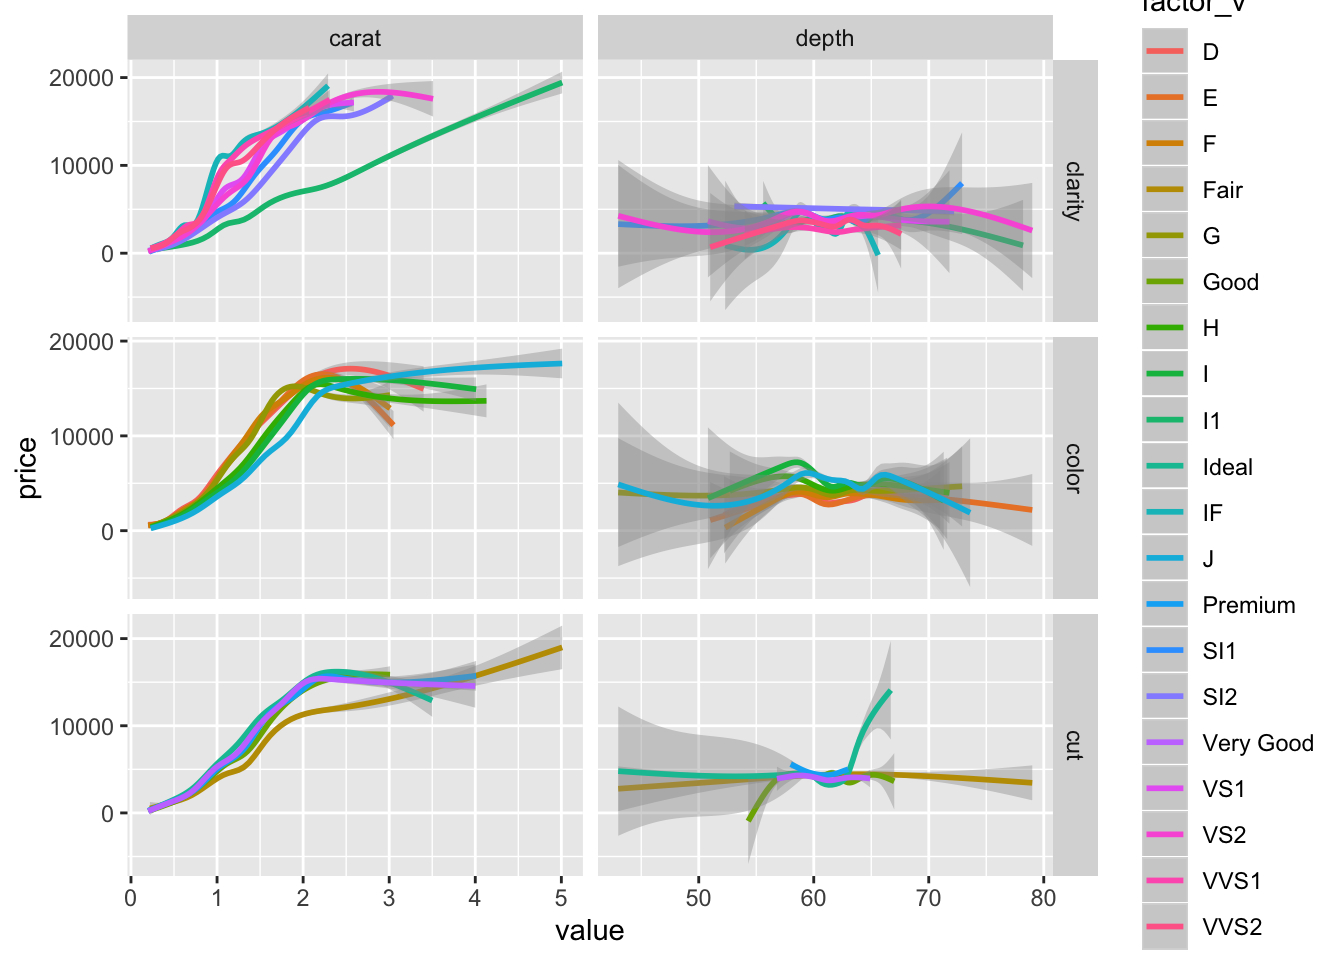
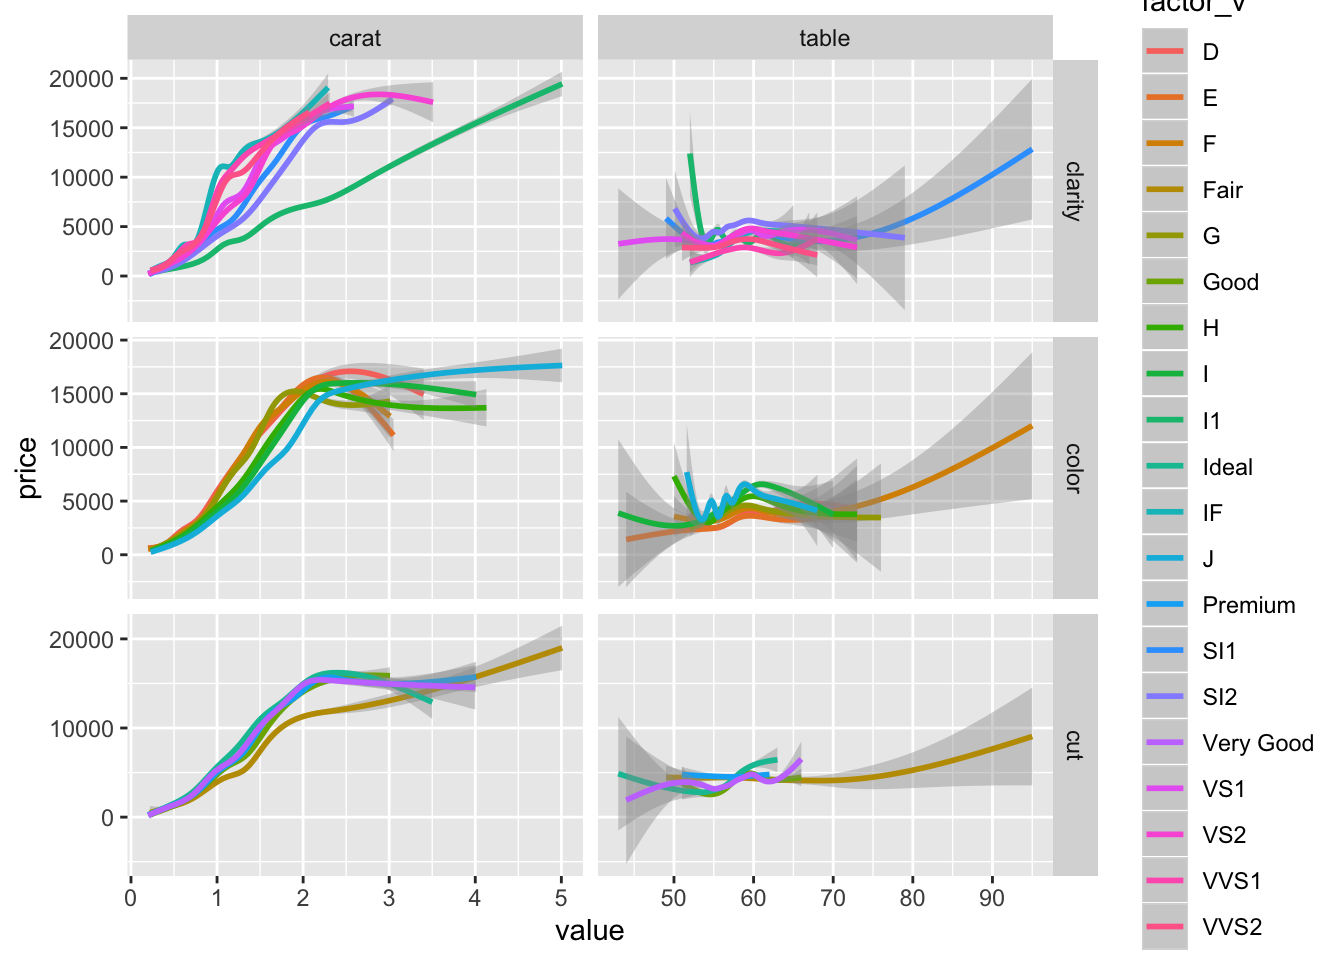
fixed typos

diff --git a/public/blog/plotting-gamm-interactions-with-ggplot2/index.html b/public/blog/plotting-gamm-interactions-with-ggplot2/index.html
@@ -218,12 +218,12 @@ But the other variables might also have smaller effects that we should be accoun
 <p>Let’s start of by just making some plots, and get an idea of the data and how they interact with price.
 I’m going to gather the numeric variables I’m interested in into a long-format table, so that I can facet (make subplots) easily for the different variables.</p>
 <pre class="r"><code>library(tidyverse)</code></pre>
-<pre><code>## ── Attaching packages ─────────────────────────────────── tidyverse 1.2.1 ──</code></pre>
+<pre><code>## ── Attaching packages ────────────────────────────── tidyverse 1.2.1 ──</code></pre>
 <pre><code>## ✔ ggplot2 3.2.1          ✔ purrr   0.3.3     
 ## ✔ tibble  2.1.3          ✔ dplyr   0.8.3     
 ## ✔ tidyr   1.0.0.9000     ✔ stringr 1.4.0     
 ## ✔ readr   1.3.1          ✔ forcats 0.4.0</code></pre>
-<pre><code>## ── Conflicts ────────────────────────────────────── tidyverse_conflicts() ──
+<pre><code>## ── Conflicts ───────────────────────────────── tidyverse_conflicts() ──
 ## ✖ dplyr::filter() masks stats::filter()
 ## ✖ dplyr::lag()    masks stats::lag()</code></pre>
 <pre class="r"><code>diamonds %&gt;% 
@@ -241,7 +241,7 @@ It looks so strange, but we can play with it anyway.</p>
 <h2>GAM interactions between numeric and factors</h2>
 <p>Let’s also have a look at some of the factors, and how they play into those two variables.</p>
 <pre class="r"><code>diamonds %&gt;% 
-  gather(variable, value, carat, depth) %&gt;% 
+  gather(variable, value, carat, table) %&gt;% 
   gather(factor_g , factor_v, cut, color, clarity) %&gt;% 
   ggplot(aes(x=value, y=price)) +
   geom_smooth(aes(group=factor_v, colour=factor_v)) +
@@ -251,9 +251,10 @@ It looks so strange, but we can play with it anyway.</p>
 <pre><code>## `geom_smooth()` using method = &#39;gam&#39; and formula &#39;y ~ s(x, bs = &quot;cs&quot;)&#39;</code></pre>
 <p><img src="/blog/2019-11-16-plotting-gamm-interactions-with-ggplot2_files/figure-html/unnamed-chunk-2-1.png" width="672" /></p>
 <p>I’m not winning any awards with this plot, but it’s a quick way to get a general idea of what the data looks like.
-There’s not much fun happening with <code>depth</code> though there is this one cut that seems to behave <em>very</em> oddly.
-We will leare depth as a main contributor, and focus on carat.</p>
-<p>I’d say both the carat-clarity and carat-cut plots might have some interesting interactions, so I’ll dig into one of those. I’m just going to pick clarity, for the clarity (award for horrible word-puns goes to me!).</p>
+There’s not much fun happening with <code>table</code> though there is this one cut that seems to behave <em>very</em> oddly.
+We will leave <code>table</code> as a main contributor, and focus on <code>carat</code>.</p>
+<p>I’d say both the carat-clarity and carat-table plots might have some interesting interactions, so I’ll dig into those.
+I’m just going to pick clarity, for the clarity (award for horrible word-puns goes to me!).</p>
 <pre class="r"><code>library(mgcv)</code></pre>
 <pre><code>## Loading required package: nlme</code></pre>
 <pre><code>## 
@@ -275,14 +276,14 @@ Let’s look at predicted price in a plot.</p>
 <pre class="r"><code>plot(model1)</code></pre>
 <p><img src="/blog/2019-11-16-plotting-gamm-interactions-with-ggplot2_files/figure-html/unnamed-chunk-4-1.png" width="672" /></p>
 <p>There’s the smooth line.
-But let’s be honest, it aint pretty.
-It’s neat for getting a quick look at it, but if you’re prepping for a paper or a report, you’ll need to fix it up a bit.
+But let’s be honest, it ain’t pretty.
+It’s neat for getting a quick look at, but if you’re prepping for a paper or a report, you’ll need to fix it up a bit.
 Let’s ggplot it.</p>
 <p>In order to do that, we need to make some data that will create the regression line.
 We do that by creating a data frame that includes the predictor variable(s) in an ordered fashion.
 In this first case, we want a data frame with a column named <code>carat</code> that covers all the carat-values in the dataset, but that is neatly ordered ascendingly.
-We can then use that data and predict what the price would be (the fit) given the model we have created.
-We also want the confidence bands, so we make sure to tell the <code>predict</code> function that we want them too, by secifying the <code>se.fit</code> argument as <code>TRUE</code>.</p>
+We can then use that ordered data and predict what the price would be (the fit) given the model we have created.
+We also want the confidence bands, so we make sure to tell the <code>predict</code> function that we want them too, by specifying the <code>se.fit</code> argument as <code>TRUE</code>.</p>
 <pre class="r"><code>tibble(
   carat = seq(from=min(diamonds$carat), 
               to=max(diamonds$carat), 
@@ -303,7 +304,7 @@ We also want the confidence bands, so we make sure to tell the <code>predict</co
 This is because ggplot2 does a cubic spline with knot reductions, while we are using the default low rank isotropic smoothers (<code>bs='tp'</code>).
 But you can see that we are nicely plotting the predicted line based on the model we have.
 We can do this because we created a tibble with a <code>carat</code> variable in the range of that is in the data (min to max) with a length of <code>1000</code>.
-For regression lines you’ll not need too many points to create a good smooth line.</p>
+For regression lines you’ll not need this many points to create a good smooth line, but what the heck.</p>
 <p>You can also predict outside the range of the data, by specifying your own range.
 Let’s hypothetically say a diamond with such an amazing quality that they decided it should have a carat of 6, i.e. extending the carat measure! 0_o</p>
 <p>We can just adjust the max value of the predicting data set and see what happens.</p>
@@ -343,7 +344,7 @@ broom::tidy(model2)</code></pre>
 This gives you a full factorial.
 <strong>Note</strong> if the <code>by</code> predictor is numeric, it is <strong>not</strong> an interaction, but its own main effect.
 Numeric interactions we do differently (see later section).
-The results here indicate that the different cuts do alter the price.</p>
+The results here indicate that the different clarities do alter the price.</p>
 <p>But notice that the main effects for each clarity is not listed here.
 The tidier for <code>gam</code> only includes the smooth terms, not the parametric ones.
 They have different summary statistics, so having them in the same table require some extra steps, but I still usually do so, atleast to get an idea of what I’m looking at.</p>

diff --git a/content/blog/2019-11-16-plotting-gamm-interactions-with-ggplot2.html b/content/blog/2019-11-16-plotting-gamm-interactions-with-ggplot2.html
@@ -27,12 +27,12 @@ But the other variables might also have smaller effects that we should be accoun
 <p>Let’s start of by just making some plots, and get an idea of the data and how they interact with price.
 I’m going to gather the numeric variables I’m interested in into a long-format table, so that I can facet (make subplots) easily for the different variables.</p>
 <pre class="r"><code>library(tidyverse)</code></pre>
-<pre><code>## ── Attaching packages ─────────────────────────────────── tidyverse 1.2.1 ──</code></pre>
+<pre><code>## ── Attaching packages ────────────────────────────── tidyverse 1.2.1 ──</code></pre>
 <pre><code>## ✔ ggplot2 3.2.1          ✔ purrr   0.3.3     
 ## ✔ tibble  2.1.3          ✔ dplyr   0.8.3     
 ## ✔ tidyr   1.0.0.9000     ✔ stringr 1.4.0     
 ## ✔ readr   1.3.1          ✔ forcats 0.4.0</code></pre>
-<pre><code>## ── Conflicts ────────────────────────────────────── tidyverse_conflicts() ──
+<pre><code>## ── Conflicts ───────────────────────────────── tidyverse_conflicts() ──
 ## ✖ dplyr::filter() masks stats::filter()
 ## ✖ dplyr::lag()    masks stats::lag()</code></pre>
 <pre class="r"><code>diamonds %&gt;% 
@@ -50,7 +50,7 @@ It looks so strange, but we can play with it anyway.</p>
 <h2>GAM interactions between numeric and factors</h2>
 <p>Let’s also have a look at some of the factors, and how they play into those two variables.</p>
 <pre class="r"><code>diamonds %&gt;% 
-  gather(variable, value, carat, depth) %&gt;% 
+  gather(variable, value, carat, table) %&gt;% 
   gather(factor_g , factor_v, cut, color, clarity) %&gt;% 
   ggplot(aes(x=value, y=price)) +
   geom_smooth(aes(group=factor_v, colour=factor_v)) +
@@ -60,9 +60,10 @@ It looks so strange, but we can play with it anyway.</p>
 <pre><code>## `geom_smooth()` using method = &#39;gam&#39; and formula &#39;y ~ s(x, bs = &quot;cs&quot;)&#39;</code></pre>
 <p><img src="/blog/2019-11-16-plotting-gamm-interactions-with-ggplot2_files/figure-html/unnamed-chunk-2-1.png" width="672" /></p>
 <p>I’m not winning any awards with this plot, but it’s a quick way to get a general idea of what the data looks like.
-There’s not much fun happening with <code>depth</code> though there is this one cut that seems to behave <em>very</em> oddly.
-We will leare depth as a main contributor, and focus on carat.</p>
-<p>I’d say both the carat-clarity and carat-cut plots might have some interesting interactions, so I’ll dig into one of those. I’m just going to pick clarity, for the clarity (award for horrible word-puns goes to me!).</p>
+There’s not much fun happening with <code>table</code> though there is this one cut that seems to behave <em>very</em> oddly.
+We will leave <code>table</code> as a main contributor, and focus on <code>carat</code>.</p>
+<p>I’d say both the carat-clarity and carat-table plots might have some interesting interactions, so I’ll dig into those.
+I’m just going to pick clarity, for the clarity (award for horrible word-puns goes to me!).</p>
 <pre class="r"><code>library(mgcv)</code></pre>
 <pre><code>## Loading required package: nlme</code></pre>
 <pre><code>## 
@@ -84,14 +85,14 @@ Let’s look at predicted price in a plot.</p>
 <pre class="r"><code>plot(model1)</code></pre>
 <p><img src="/blog/2019-11-16-plotting-gamm-interactions-with-ggplot2_files/figure-html/unnamed-chunk-4-1.png" width="672" /></p>
 <p>There’s the smooth line.
-But let’s be honest, it aint pretty.
-It’s neat for getting a quick look at it, but if you’re prepping for a paper or a report, you’ll need to fix it up a bit.
+But let’s be honest, it ain’t pretty.
+It’s neat for getting a quick look at, but if you’re prepping for a paper or a report, you’ll need to fix it up a bit.
 Let’s ggplot it.</p>
 <p>In order to do that, we need to make some data that will create the regression line.
 We do that by creating a data frame that includes the predictor variable(s) in an ordered fashion.
 In this first case, we want a data frame with a column named <code>carat</code> that covers all the carat-values in the dataset, but that is neatly ordered ascendingly.
-We can then use that data and predict what the price would be (the fit) given the model we have created.
-We also want the confidence bands, so we make sure to tell the <code>predict</code> function that we want them too, by secifying the <code>se.fit</code> argument as <code>TRUE</code>.</p>
+We can then use that ordered data and predict what the price would be (the fit) given the model we have created.
+We also want the confidence bands, so we make sure to tell the <code>predict</code> function that we want them too, by specifying the <code>se.fit</code> argument as <code>TRUE</code>.</p>
 <pre class="r"><code>tibble(
   carat = seq(from=min(diamonds$carat), 
               to=max(diamonds$carat), 
@@ -112,7 +113,7 @@ We also want the confidence bands, so we make sure to tell the <code>predict</co
 This is because ggplot2 does a cubic spline with knot reductions, while we are using the default low rank isotropic smoothers (<code>bs='tp'</code>).
 But you can see that we are nicely plotting the predicted line based on the model we have.
 We can do this because we created a tibble with a <code>carat</code> variable in the range of that is in the data (min to max) with a length of <code>1000</code>.
-For regression lines you’ll not need too many points to create a good smooth line.</p>
+For regression lines you’ll not need this many points to create a good smooth line, but what the heck.</p>
 <p>You can also predict outside the range of the data, by specifying your own range.
 Let’s hypothetically say a diamond with such an amazing quality that they decided it should have a carat of 6, i.e. extending the carat measure! 0_o</p>
 <p>We can just adjust the max value of the predicting data set and see what happens.</p>
@@ -152,7 +153,7 @@ broom::tidy(model2)</code></pre>
 This gives you a full factorial.
 <strong>Note</strong> if the <code>by</code> predictor is numeric, it is <strong>not</strong> an interaction, but its own main effect.
 Numeric interactions we do differently (see later section).
-The results here indicate that the different cuts do alter the price.</p>
+The results here indicate that the different clarities do alter the price.</p>
 <p>But notice that the main effects for each clarity is not listed here.
 The tidier for <code>gam</code> only includes the smooth terms, not the parametric ones.
 They have different summary statistics, so having them in the same table require some extra steps, but I still usually do so, atleast to get an idea of what I’m looking at.</p>
